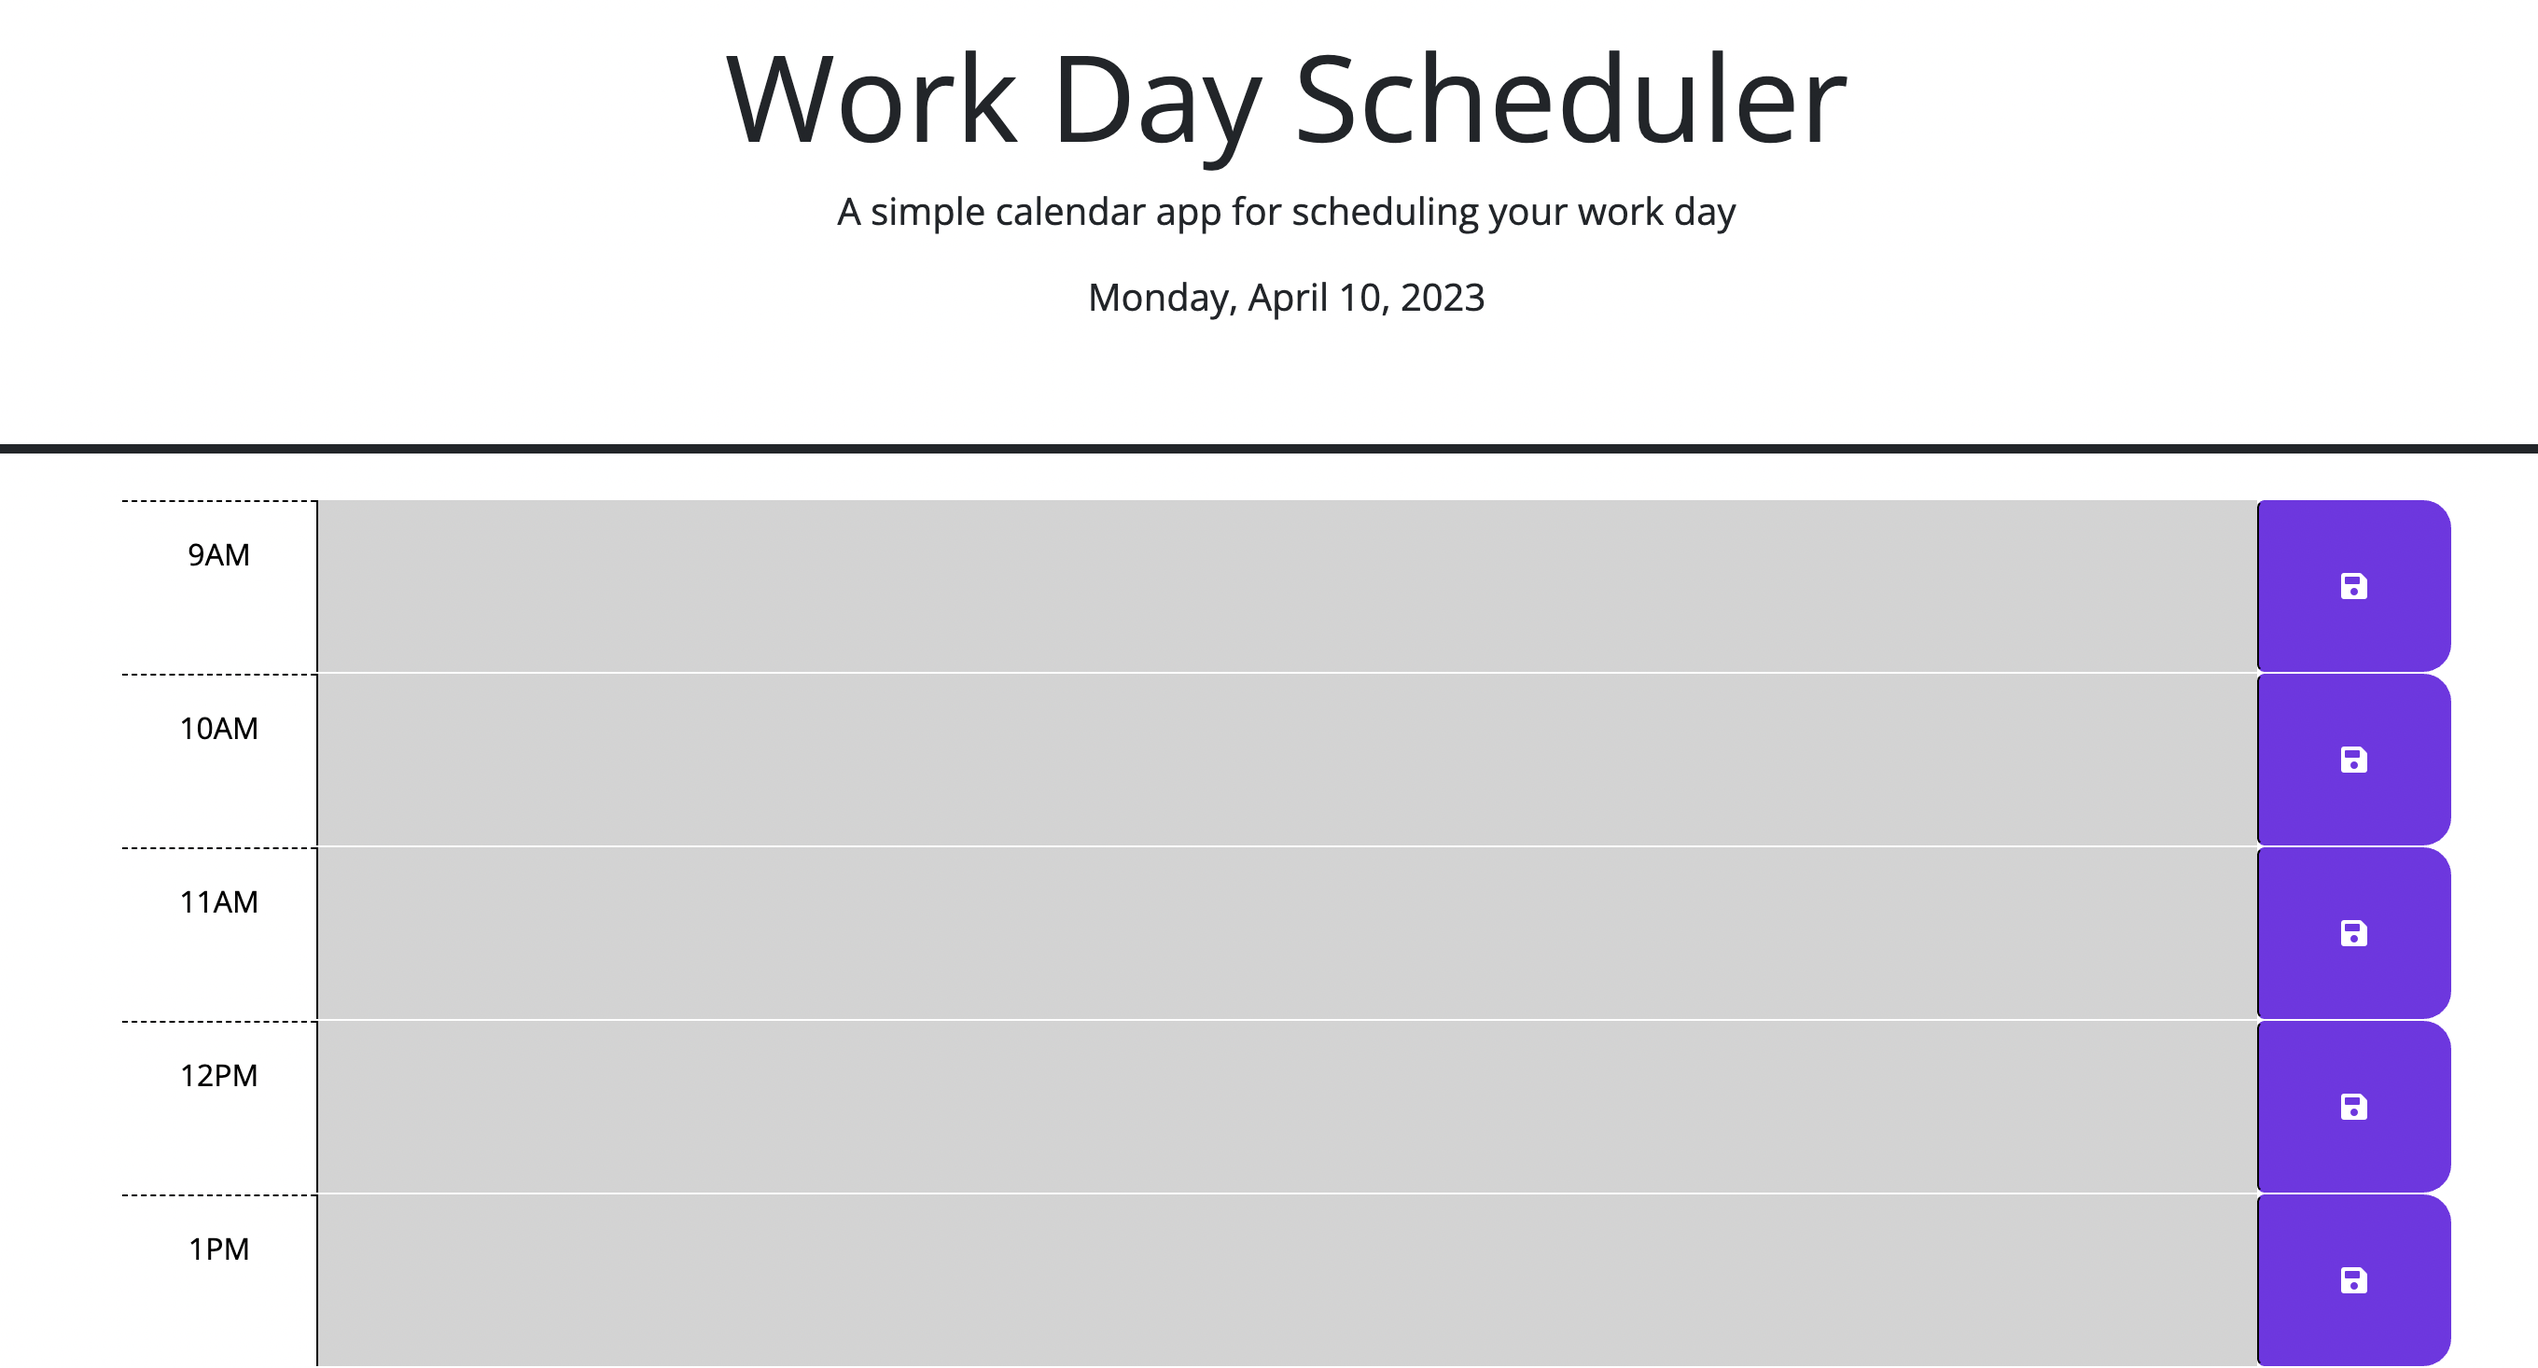
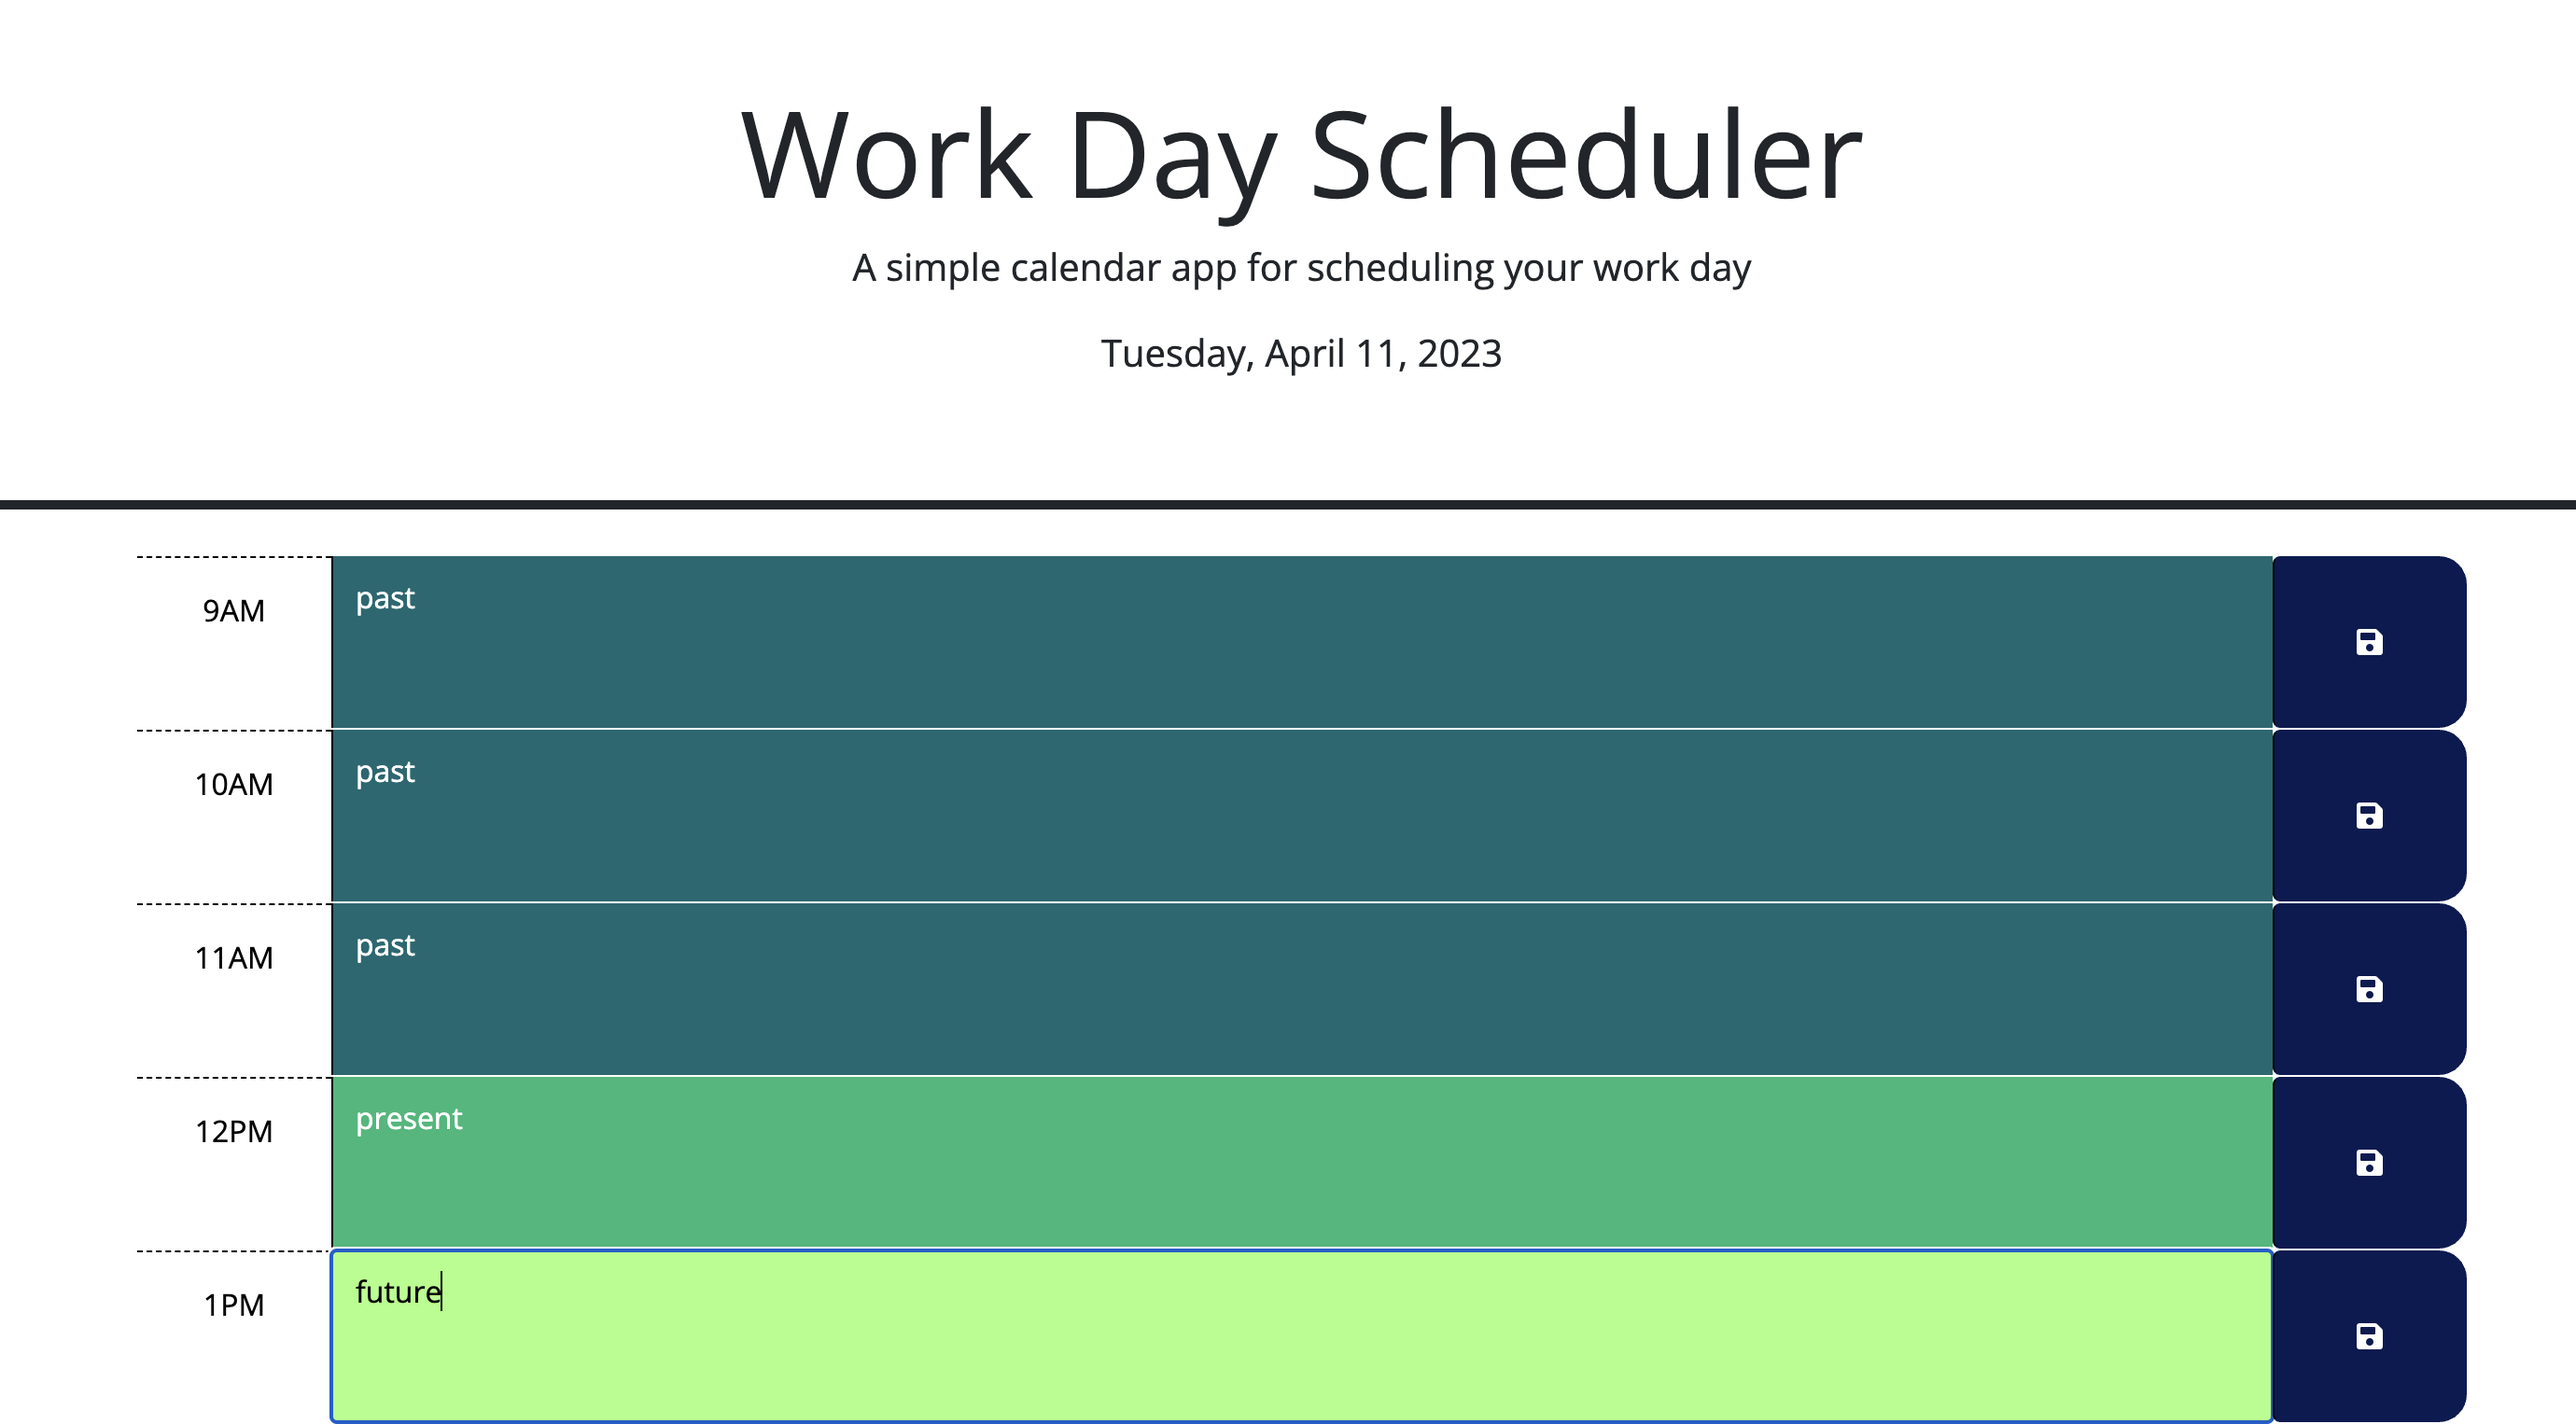
Worked on the local storage

diff --git a/assets/js/script.js b/assets/js/script.js
@@ -7,6 +7,7 @@ var saveBtn = document.querySelector(".saveBtn");
 // the code isn't run until the browser has finished rendering all the elements
 // in the html.
 $(function () {
+  var descriptions = JSON.parse(localStorage.getItem("descriptions")) || []
   // Code to display the current date in the header of the page.
   function currentDate() {
       var today = dayjs().format("dddd, MMMM D, YYYY");
@@ -18,6 +19,16 @@ $(function () {
   $(document).ready(function(){
     $(".btn").click(function(){
       console.log("click")   //test
+      var value = $(this).siblings("textarea").val();
+      var hour = $(this).parent().attr('id');
+      console.log(value)
+      for (var i = 0; i < descriptions.length; i++) {
+        var description = descriptions[i]
+        if (description.hour === hour) {
+          descriptions[i].text = value;
+        }
+      }
+      localStorage.setItem('descriptions', JSON.stringify(descriptions))
     })
   })
    
@@ -52,33 +63,23 @@ $(function () {
 
   // Create the div rows and columns dynamically
   for( var i = 9; i<= 17; i++ ){
-    var div = `<div class='row'>
+    if (descriptions === []) {
+      descriptions.push({
+        hour: i,
+        value: ''
+      })
+    }
+    localStorage.setItem('descriptions', JSON.stringify(descriptions))
+    var descriptionObj = descriptions.find(description => description.hour === i)
+    var div = `<div class='row' id=${i}>
     <div class='col-2 col-md-1 hour text-center py-3'>${militaryToStandardTime(i)}</div>
-    <textarea class='col-8 col-md-10 description ${getClassName(i)}' rows='3'></textarea>
+    <textarea class='col-8 col-md-10 description ${getClassName(i)}' rows='3'>${ descriptionObj && descriptionObj.text}</textarea>
     <button class='btn saveBtn col-2 col-md-1' aria-label='save'>
       <i class='fas fa-save' aria-hidden='true'></i>
     </button>
   </div>`
     $( ".container-lg" ).append(div)
   }
-  
-  // $("button").on("click", function(event) {
-  //   console.log("new click")
-  //   event.preventDefault();
-  //   document.getElementsByClassName("description").textContent = taskDescription.value;
-  //   console.log("Saved text: " + taskDescription)
-  // });
-
-  // Create a submit event listener on the form element
-  //Adds an event listener for the "button"
-// $("button").on("click", function (event) { 
-// event.preventDefault();
-// console.log("hello")
-// //Sets item to the value of the text area for the appropriate time block 
-//   for ( i = 0; i < 12; i++) {
-//       localStorage.setItem('textarea' + String(i + 1), $("textarea")[i].value) 
-//   }
-// });
 });
 
 

diff --git a/assets/css/style.css b/assets/css/style.css
@@ -31,25 +31,25 @@ textarea {
 }
 
 .past {
-  background-color: #d3d3d3;
+  background-color: #086972;
   color: white;
 }
 
 .present {
-  background-color: #f59236;
+  background-color: #17B978;
   color: white;
 }
 
 .future {
-  background-color: #33e7a2;
-  color: white;
+  background-color: #A7FF83;
+  color: black;
 }
 
 .saveBtn {
   border-left: 1px solid black;
   border-top-right-radius: 15px;
   border-bottom-right-radius: 15px;
-  background-color: #7533e7;
+  background-color: #071A52;
   color: white;
 }
 

diff --git a/README.md b/README.md
@@ -2,7 +2,7 @@
 
 ## Objective
 
-The objective was to create a day planner page that updates with the correct day and date at the top of the page, and keeps track of the current hour in hour blocks for a regular workday. Past hours are gray, the current hour is orange, and future hour blocks are minty-colored. When the user enters text into one of the hour blocks and clicks save, the text is theoretically saved. (Still working on this piece.)
+The objective was to create a day planner page that updates with the correct day and date at the top of the page, and keeps track of the current hour in hour blocks for a regular workday. Past hours are in one color, the current hour is another color, and future hour blocks are a different color again. When the user enters text into one of the hour blocks and clicks save, the text is theoretically saved. (Still working on this piece.)
 
 ## What I Learned
 
